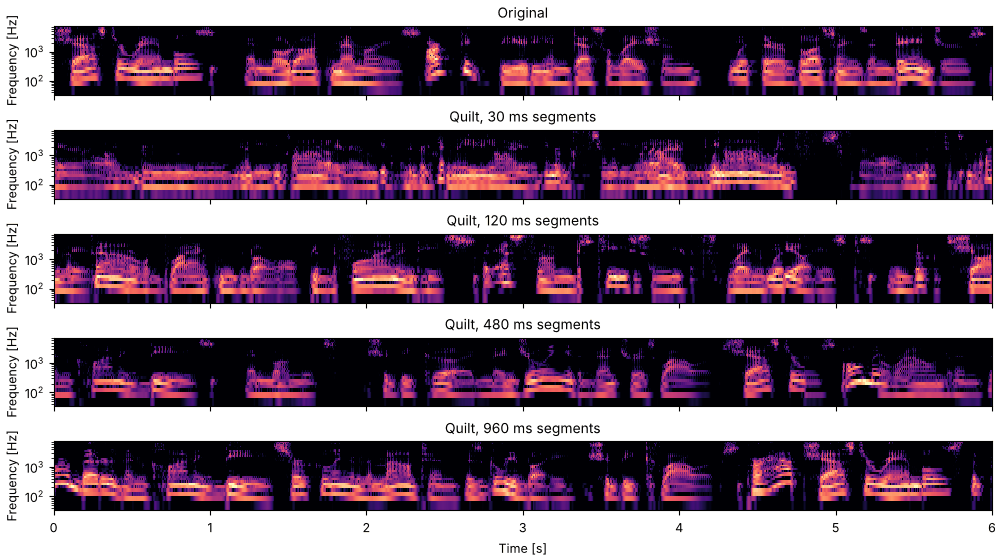
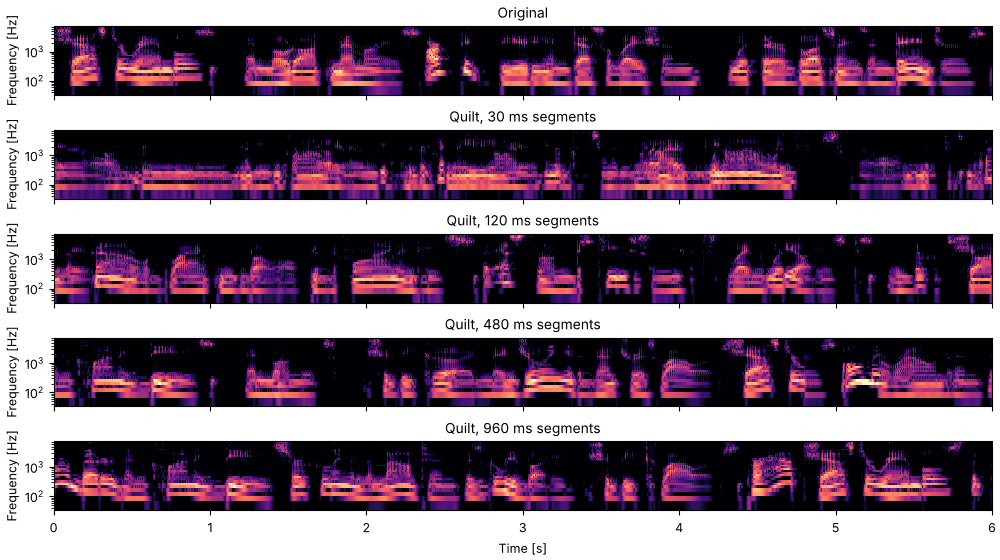
plot_envelopes(db_max=...): draw several cochleagrams on one color scale
Each cochleagram was colored relative to its own maximum, so a fire quilt
that drew the recording's big crackle looked much darker than the original
at the same level. The Sound quilts page now draws every quilt on its
original's scale.

Claude-Session: https://claude.ai/code/session_01AAWiFm7vArn1NeCRuCwaAH

diff --git a/docs/gallery/quilts.html b/docs/gallery/quilts.html
@@ -329,14 +329,17 @@ quilt_bank = so.cosine_filterbank(30, 20, 8000)  # the paper&#x27;s bank, up to 
 
 
 def quilt_demo(passage):
-    &quot;&quot;&quot;The passage&#x27;s first 6 s and a 6 s quilt at each segment length, with their cochleagrams.&quot;&quot;&quot;
+    &quot;&quot;&quot;The passage&#x27;s first 6 s and a 6 s quilt at each segment length, with their cochleagrams
+    on one color scale.&quot;&quot;&quot;
     sounds = {&quot;Original&quot;: so.Sound(passage.data[: int(QUILT_DUR * passage.fs)], passage.fs)}
     for seg in SEGMENTS:
         sounds[f&quot;{seg * 1000:.0f} ms&quot;] = so.quilt(passage, seg, QUILT_DUR, rng=1)
     sounds = finish_together(sounds)
     fig, axes = plt.subplots(len(sounds), 1, figsize=(10, 5.6), sharex=True, layout=&quot;constrained&quot;)
-    for ax, (label, snd) in zip(axes, sounds.items(), strict=True):
-        quilt_bank.analyze(snd).envelopes().plot(ax, colorbar=False)
+    envelopes = {label: quilt_bank.analyze(snd).envelopes() for label, snd in sounds.items()}
+    top = envelopes[&quot;Original&quot;].db[:, 1:-1].max()  # all on the original&#x27;s color scale
+    for ax, (label, env) in zip(axes, envelopes.items(), strict=True):
+        env.plot(ax, colorbar=False, db_max=top)
         title = label if label == &quot;Original&quot; else f&quot;Quilt, {label} segments&quot;
         ax.set(title=title, xlabel=&quot;&quot;, xlim=(0, QUILT_DUR))
     axes[-1].set_xlabel(&quot;Time [s]&quot;)
@@ -462,14 +465,16 @@ check this.</p>
 
 def texture_quilt_demo(recording, duration, segments=(0.03, 0.12, 0.96)):
     &quot;&quot;&quot;The recording&#x27;s first ``duration`` seconds and a quilt of the whole recording at each
-    segment length, played at one gain, with their cochleagrams.&quot;&quot;&quot;
+    segment length, played at one gain, with their cochleagrams on one color scale.&quot;&quot;&quot;
     sounds = {&quot;Original&quot;: so.Sound(recording.data[: int(duration * recording.fs)], recording.fs)}
     for seg in segments:
         sounds[f&quot;{seg * 1000:.0f} ms&quot;] = so.quilt(recording, seg, duration, rng=1)
     sounds = finish_together(sounds)
     fig, axes = plt.subplots(len(sounds), 1, figsize=(10, 4.6), sharex=True, layout=&quot;constrained&quot;)
-    for ax, (label, snd) in zip(axes, sounds.items(), strict=True):
-        texture_bank.analyze(snd).envelopes().plot(ax, colorbar=False)
+    envelopes = {label: texture_bank.analyze(snd).envelopes() for label, snd in sounds.items()}
+    top = envelopes[&quot;Original&quot;].db[:, 1:-1].max()  # all on the original&#x27;s color scale
+    for ax, (label, env) in zip(axes, envelopes.items(), strict=True):
+        env.plot(ax, colorbar=False, db_max=top)
         title = label if label == &quot;Original&quot; else f&quot;Quilt, {label} segments&quot;
         ax.set(title=title, xlabel=&quot;&quot;, xlim=(0, duration))
     axes[-1].set_xlabel(&quot;Time [s]&quot;)

diff --git a/docs/gallery/stimuli/quilts.py b/docs/gallery/stimuli/quilts.py
@@ -124,14 +124,17 @@ quilt_bank = so.cosine_filterbank(30, 20, 8000)  # the paper's bank, up to Nyqui
 
 
 def quilt_demo(passage):
-    """The passage's first 6 s and a 6 s quilt at each segment length, with their cochleagrams."""
+    """The passage's first 6 s and a 6 s quilt at each segment length, with their cochleagrams
+    on one color scale."""
     sounds = {"Original": so.Sound(passage.data[: int(QUILT_DUR * passage.fs)], passage.fs)}
     for seg in SEGMENTS:
         sounds[f"{seg * 1000:.0f} ms"] = so.quilt(passage, seg, QUILT_DUR, rng=1)
     sounds = finish_together(sounds)
     fig, axes = plt.subplots(len(sounds), 1, figsize=(10, 5.6), sharex=True, layout="constrained")
-    for ax, (label, snd) in zip(axes, sounds.items(), strict=True):
-        quilt_bank.analyze(snd).envelopes().plot(ax, colorbar=False)
+    envelopes = {label: quilt_bank.analyze(snd).envelopes() for label, snd in sounds.items()}
+    top = envelopes["Original"].db[:, 1:-1].max()  # all on the original's color scale
+    for ax, (label, env) in zip(axes, envelopes.items(), strict=True):
+        env.plot(ax, colorbar=False, db_max=top)
         title = label if label == "Original" else f"Quilt, {label} segments"
         ax.set(title=title, xlabel="", xlim=(0, QUILT_DUR))
     axes[-1].set_xlabel("Time [s]")
@@ -213,14 +216,16 @@ texture_bank = so.cosine_filterbank(30, 20, 10000)
 
 def texture_quilt_demo(recording, duration, segments=(0.03, 0.12, 0.96)):
     """The recording's first ``duration`` seconds and a quilt of the whole recording at each
-    segment length, played at one gain, with their cochleagrams."""
+    segment length, played at one gain, with their cochleagrams on one color scale."""
     sounds = {"Original": so.Sound(recording.data[: int(duration * recording.fs)], recording.fs)}
     for seg in segments:
         sounds[f"{seg * 1000:.0f} ms"] = so.quilt(recording, seg, duration, rng=1)
     sounds = finish_together(sounds)
     fig, axes = plt.subplots(len(sounds), 1, figsize=(10, 4.6), sharex=True, layout="constrained")
-    for ax, (label, snd) in zip(axes, sounds.items(), strict=True):
-        texture_bank.analyze(snd).envelopes().plot(ax, colorbar=False)
+    envelopes = {label: texture_bank.analyze(snd).envelopes() for label, snd in sounds.items()}
+    top = envelopes["Original"].db[:, 1:-1].max()  # all on the original's color scale
+    for ax, (label, env) in zip(axes, envelopes.items(), strict=True):
+        env.plot(ax, colorbar=False, db_max=top)
         title = label if label == "Original" else f"Quilt, {label} segments"
         ax.set(title=title, xlabel="", xlim=(0, duration))
     axes[-1].set_xlabel("Time [s]")

diff --git a/src/sonore/plotting.py b/src/sonore/plotting.py
@@ -134,9 +134,10 @@ def _image(
     return im
 
 
-def _db_limits(db: np.ndarray, db_range: float) -> tuple[float, float]:
-    """Color limits for levels in dB: the top ``db_range`` dB below the maximum."""
-    vmax = np.max(db)
+def _db_limits(db: np.ndarray, db_range: float, db_max: float | None = None) -> tuple[float, float]:
+    """Color limits for levels in dB: the ``db_range`` dB below ``db_max``
+    (default: the maximum of ``db``)."""
+    vmax = float(np.max(db)) if db_max is None else db_max
     return vmax - db_range, vmax
 
 
@@ -514,6 +515,7 @@ def plot_envelopes(
     *,
     channel: int = 0,
     db_range: float = 40.0,
+    db_max: float | None = None,
     cmap: str | Colormap = "magma",
     colorbar: bool = True,
     edges: bool = False,
@@ -521,7 +523,10 @@ def plot_envelopes(
     fscale: Literal["log", "linear"] = "log",
     fmax: float | None = None,
 ) -> Axes:
-    """Envelopes (a cochleagram) as an image: time x band, in dB re the maximum.
+    """Envelopes (a cochleagram) as an image: time x band, in dB, the colors
+    spanning the ``db_range`` dB below ``db_max`` (default: the image's own
+    maximum). Give several cochleagrams the same ``db_max`` to draw them on
+    one scale, so that equal levels get equal colors.
     Edge bands are hidden unless ``edges=True``.
 
     ``align="peak"`` draws each band earlier by its filter's
@@ -543,7 +548,7 @@ def plot_envelopes(
         f = np.broadcast_to(cfs[:, None], t.shape)
     else:
         raise ValueError("align must be None or 'peak'")
-    _image(ax, t, f, db.T, cmap, *_db_limits(db, db_range), colorbar, "dB")
+    _image(ax, t, f, db.T, cmap, *_db_limits(db, db_range, db_max), colorbar, "dB")
     if fscale == "log":
         ax.set_yscale("log")
         ax.set(xlabel="Time [s]", ylabel="Frequency [Hz]", title="Envelopes (cochleagram)")

diff --git a/tests/test_plotting.py b/tests/test_plotting.py
@@ -5,7 +5,7 @@ import numpy as np
 import pytest
 
 import sonore as so
-from sonore.plotting import plot_lissajous
+from sonore.plotting import plot_envelopes, plot_lissajous
 
 
 def test_plot_lissajous_draws_left_against_right():
@@ -22,3 +22,14 @@ def test_plot_lissajous_draws_left_against_right():
 def test_plot_lissajous_needs_two_channels():
     with pytest.raises(ValueError, match="two-channel"):
         plot_lissajous(so.pure_tone(0.1, 8000, 200))
+
+
+def test_plot_envelopes_shares_a_color_scale():
+    bank = so.cosine_filterbank(8, 100, 3000)
+    noise = so.gaussian_noise(0.2, 8000, rng=0)
+    loud, quiet = bank.analyze(noise).envelopes(), bank.analyze(noise * 0.1).envelopes()
+    top = float(loud.db[:, 1:-1].max())  # the edge bands are not drawn
+    own = plot_envelopes(quiet, colorbar=False).collections[0].get_clim()
+    shared = plot_envelopes(quiet, db_max=top, colorbar=False).collections[0].get_clim()
+    assert own[1] == pytest.approx(top - 20, abs=1e-6)  # its own maximum, 20 dB lower
+    assert shared == pytest.approx((top - 40, top))

diff --git a/CHANGELOG.md b/CHANGELOG.md
@@ -18,6 +18,9 @@ version (0.x.y) only fixes bugs.
 - Gallery: "How big the pops are" on the Sound textures page, the envelope
   peaks of the fire recording and its synthesis, and pops from
   `so.event_train` at power-law exponents 1, 2 and 4.
+- `plot_envelopes(db_max=...)` (and `Envelopes.plot`): the top of the
+  color scale in dB, so several cochleagrams can be drawn on one scale. The
+  Sound quilts page draws each quilt on its original's scale.
 
 ## [0.7.0] - 2026-10-14
 
